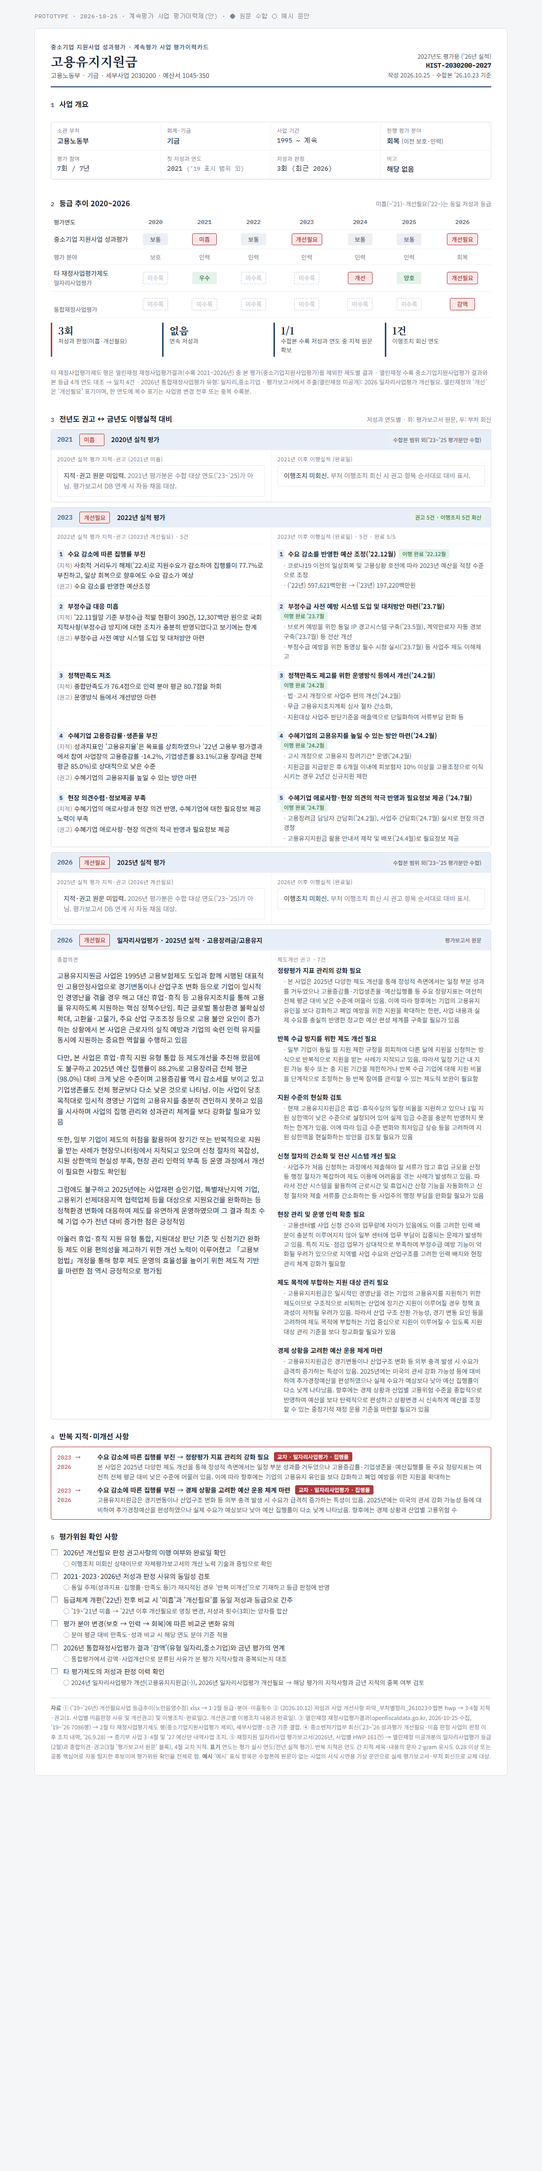
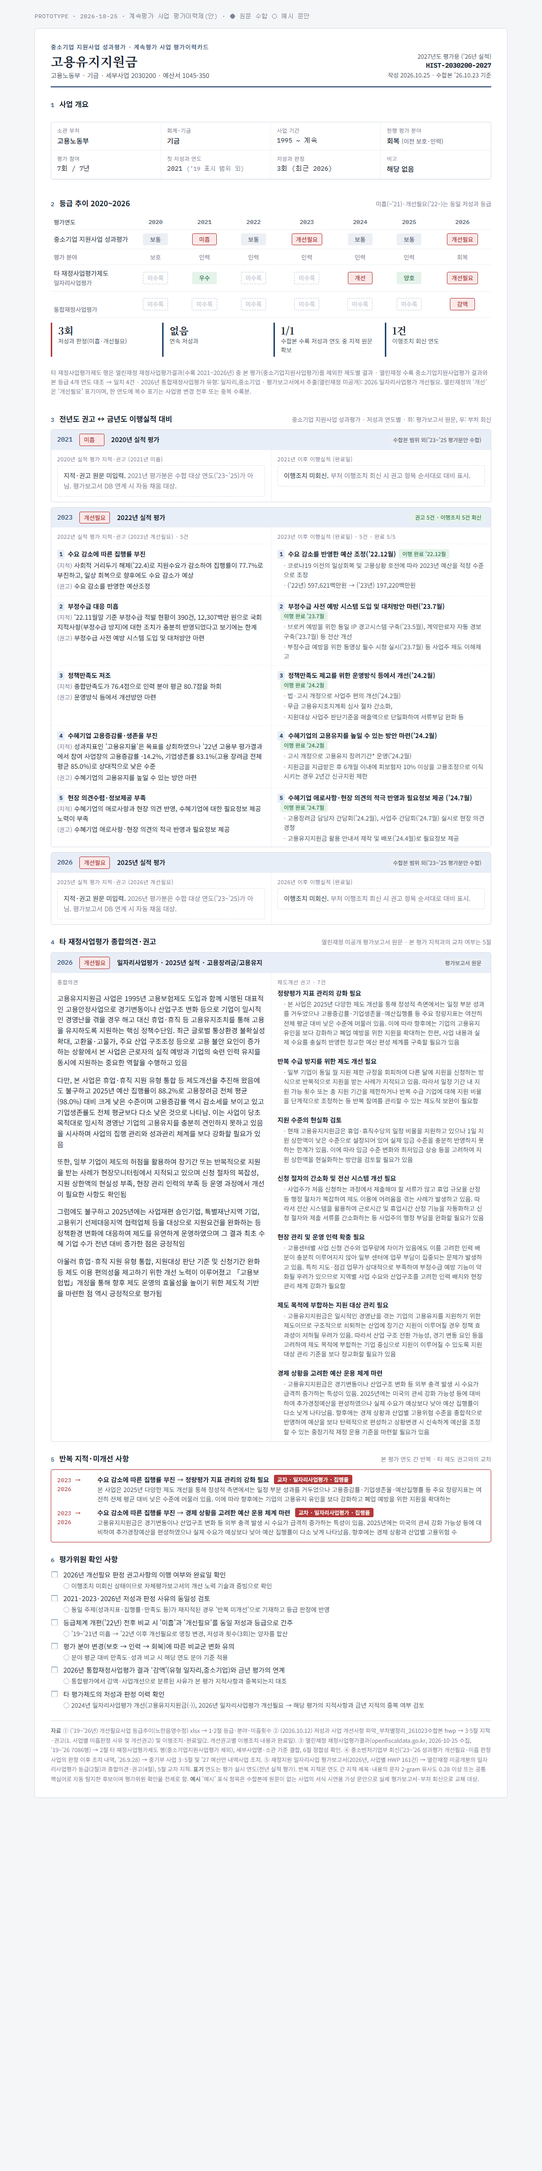
3절은 중소기업 지원사업 평가만, 타 재정사업평가 의견은 4절로 분리 (반복 5절·확인 6절)

Changed region(s): [[0.0927, 0.4359, 0.8964, 0.8407], [0.0927, 0.4048, 0.4945, 0.5916]]

diff --git a/card/eval_history_card.html b/card/eval_history_card.html
@@ -270,13 +270,15 @@ function render(p){
 
   // ---- 타 평가제도 평가보고서(일자리사업평가 등)의 종합의견·권고
   const OF = Object.entries(p.other_findings||{}).sort();
+  let otherHtml = '';
   for(const [y,recs] of OF) for(const r of recs){
     const sm = r.summary.map(s=>`<p class="sub">${esc(s)}</p>`).join('');
     const it = r.items.map(f=>`<div class="item"><p class="t">${esc(f.title)}</p>${f.detail.map(d=>`<p class="sub">${esc(d)}</p>`).join('')}</div>`).join('');
     const meta = [r.sub && r.sub!==p.name ? `내역 ${esc(r.sub)}` : '', r.job_type ? esc(r.job_type)+(r.sub_type?'/'+esc(r.sub_type):'') : ''].filter(Boolean).join(' · ');
-    pairs += `<div class="pair"><div class="yr"><span class="mono">${y}</span> <span class="chip ${fisClass(r.grade)}">${esc(r.grade)}</span> <span>${esc(r.system)} · ${+y-1}년 실적${meta?' · '+meta:''}</span><span class="st"><span class="badge b-na">평가보고서 원문</span></span></div>
+    otherHtml += `<div class="pair"><div class="yr"><span class="mono">${y}</span> <span class="chip ${fisClass(r.grade)}">${esc(r.grade)}</span> <span>${esc(r.system)} · ${+y-1}년 실적${meta?' · '+meta:''}</span><span class="st"><span class="badge b-na">평가보고서 원문</span></span></div>
       <div class="cols"><div><div class="lab">종합의견</div>${sm||'<div class="empty">종합의견 없음</div>'}</div><div><div class="lab">제도개선 권고 · ${r.items.length}건</div>${it||'<div class="empty">권고 없음</div>'}</div></div></div>`;
   }
+  if(!otherHtml) otherHtml = `<div class="empty">타 재정사업평가의 평가보고서 원문이 결합된 연도 없음. 등급만 공개된 제도(열린재정)는 2절 행을 참조.</div>`;
 
   // ---- 반복 지적
   let repHtml;
@@ -346,22 +348,27 @@ function render(p){
   </section>
 
   <section>
-    <h2><span class="n">3</span>전년도 권고 ↔ 금년도 이행실적 대비<span class="hint">저성과 연도별 · 좌: 평가보고서 원문, 우: 부처 회신</span></h2>
+    <h2><span class="n">3</span>전년도 권고 ↔ 금년도 이행실적 대비<span class="hint">중소기업 지원사업 성과평가 · 저성과 연도별 · 좌: 평가보고서 원문, 우: 부처 회신</span></h2>
     ${hasSample?`<div class="banner"><b>예시 데이터 안내.</b> ${esc(p.sample_note||'아래 지적·권고·이행조치 중 예시 표식 항목은 서식 시연용 가상 문안으로, 실제 평가보고서 원문과 부처 회신으로 교체해야 함.')}</div>`:''}
     ${pairs}
   </section>
 
   <section>
-    <h2><span class="n">4</span>반복 지적·미개선 사항</h2>
+    <h2><span class="n">4</span>타 재정사업평가 종합의견·권고<span class="hint">열린재정 미공개 평가보고서 원문 · 본 평가 지적과의 교차 여부는 5절</span></h2>
+    ${otherHtml}
+  </section>
+
+  <section>
+    <h2><span class="n">5</span>반복 지적·미개선 사항<span class="hint">본 평가 연도 간 반복 · 타 제도 권고와의 교차</span></h2>
     ${repHtml}
   </section>
 
   <section>
-    <h2><span class="n">5</span>평가위원 확인 사항</h2>
+    <h2><span class="n">6</span>평가위원 확인 사항</h2>
     <ul class="check">${checks.map(c=>`<li><span>${c}</span></li>`).join('')}</ul>
   </section>
 
-  <footer><b>자료</b> ① (’19~’26년) 개선필요사업 등급추이(노란음영수정) xlsx → 1·2절 등급·분야·미흡횟수 ② (2026.10.12) 저성과 사업 개선사항 파악_부처별정리_261023수합본 hwp → 3·4절 지적·권고(1. 사업별 미흡판정 사유 및 개선권고) 및 이행조치·완료일(2. 개선권고별 이행조치 내용과 완료일). ③ 열린재정 재정사업평가결과(openfiscaldata.go.kr, ${esc(D.fiscal_meta?D.fiscal_meta.fetched_at:'')} 수집, ’19~’26 ${D.fiscal_rows}행) → 2절 타 재정사업평가제도 행(중소기업지원사업평가 제외), 세부사업명·소관 기준 결합. ④ 중소벤처기업부 회신(’23~’26 성과평가 개선필요·미흡 판정 사업의 판정 이후 조치 내역, ’26.9.28) → 중기부 사업 3·4절 및 ’27 예산안 내역사업 조치. ⑤ 재정지원 일자리사업 평가보고서(${esc(D.jobs_meta?D.jobs_meta.year:'')}년, 사업별 HWP ${esc(D.jobs_meta?D.jobs_meta.count:'')}건) → 열린재정 미공개분의 일자리사업평가 등급(2절)과 종합의견·권고(3절 '평가보고서 원문' 블록), 4절 교차 지적. <b>표기</b> 연도는 평가 실시 연도(전년 실적 평가). 반복 지적은 연도 간 지적 제목·내용의 문자 2-gram 유사도 0.28 이상 또는 공통 핵심어로 자동 탐지한 후보이며 평가위원 확인을 전제로 함. <b>예시</b> '예시' 표식 항목은 수합본에 원문이 없는 사업의 서식 시연용 가상 문안으로 실제 평가보고서·부처 회신으로 교체 대상.</footer>`;
+  <footer><b>자료</b> ① (’19~’26년) 개선필요사업 등급추이(노란음영수정) xlsx → 1·2절 등급·분야·미흡횟수 ② (2026.10.12) 저성과 사업 개선사항 파악_부처별정리_261023수합본 hwp → 3·5절 지적·권고(1. 사업별 미흡판정 사유 및 개선권고) 및 이행조치·완료일(2. 개선권고별 이행조치 내용과 완료일). ③ 열린재정 재정사업평가결과(openfiscaldata.go.kr, ${esc(D.fiscal_meta?D.fiscal_meta.fetched_at:'')} 수집, ’19~’26 ${D.fiscal_rows}행) → 2절 타 재정사업평가제도 행(중소기업지원사업평가 제외), 세부사업명·소관 기준 결합, 6절 정합성 확인. ④ 중소벤처기업부 회신(’23~’26 성과평가 개선필요·미흡 판정 사업의 판정 이후 조치 내역, ’26.9.28) → 중기부 사업 3·5절 및 ’27 예산안 내역사업 조치. ⑤ 재정지원 일자리사업 평가보고서(${esc(D.jobs_meta?D.jobs_meta.year:'')}년, 사업별 HWP ${esc(D.jobs_meta?D.jobs_meta.count:'')}건) → 열린재정 미공개분의 일자리사업평가 등급(2절)과 종합의견·권고(4절), 5절 교차 지적. <b>표기</b> 연도는 평가 실시 연도(전년 실적 평가). 반복 지적은 연도 간 지적 제목·내용의 문자 2-gram 유사도 0.28 이상 또는 공통 핵심어로 자동 탐지한 후보이며 평가위원 확인을 전제로 함. <b>예시</b> '예시' 표식 항목은 수합본에 원문이 없는 사업의 서식 시연용 가상 문안으로 실제 평가보고서·부처 회신으로 교체 대상.</footer>`;
 }
 
 // ---- 사업 선택

diff --git a/card/examples/2030200_고용유지지원금.html b/card/examples/2030200_고용유지지원금.html
@@ -270,13 +270,15 @@ function render(p){
 
   // ---- 타 평가제도 평가보고서(일자리사업평가 등)의 종합의견·권고
   const OF = Object.entries(p.other_findings||{}).sort();
+  let otherHtml = '';
   for(const [y,recs] of OF) for(const r of recs){
     const sm = r.summary.map(s=>`<p class="sub">${esc(s)}</p>`).join('');
     const it = r.items.map(f=>`<div class="item"><p class="t">${esc(f.title)}</p>${f.detail.map(d=>`<p class="sub">${esc(d)}</p>`).join('')}</div>`).join('');
     const meta = [r.sub && r.sub!==p.name ? `내역 ${esc(r.sub)}` : '', r.job_type ? esc(r.job_type)+(r.sub_type?'/'+esc(r.sub_type):'') : ''].filter(Boolean).join(' · ');
-    pairs += `<div class="pair"><div class="yr"><span class="mono">${y}</span> <span class="chip ${fisClass(r.grade)}">${esc(r.grade)}</span> <span>${esc(r.system)} · ${+y-1}년 실적${meta?' · '+meta:''}</span><span class="st"><span class="badge b-na">평가보고서 원문</span></span></div>
+    otherHtml += `<div class="pair"><div class="yr"><span class="mono">${y}</span> <span class="chip ${fisClass(r.grade)}">${esc(r.grade)}</span> <span>${esc(r.system)} · ${+y-1}년 실적${meta?' · '+meta:''}</span><span class="st"><span class="badge b-na">평가보고서 원문</span></span></div>
       <div class="cols"><div><div class="lab">종합의견</div>${sm||'<div class="empty">종합의견 없음</div>'}</div><div><div class="lab">제도개선 권고 · ${r.items.length}건</div>${it||'<div class="empty">권고 없음</div>'}</div></div></div>`;
   }
+  if(!otherHtml) otherHtml = `<div class="empty">타 재정사업평가의 평가보고서 원문이 결합된 연도 없음. 등급만 공개된 제도(열린재정)는 2절 행을 참조.</div>`;
 
   // ---- 반복 지적
   let repHtml;
@@ -346,22 +348,27 @@ function render(p){
   </section>
 
   <section>
-    <h2><span class="n">3</span>전년도 권고 ↔ 금년도 이행실적 대비<span class="hint">저성과 연도별 · 좌: 평가보고서 원문, 우: 부처 회신</span></h2>
+    <h2><span class="n">3</span>전년도 권고 ↔ 금년도 이행실적 대비<span class="hint">중소기업 지원사업 성과평가 · 저성과 연도별 · 좌: 평가보고서 원문, 우: 부처 회신</span></h2>
     ${hasSample?`<div class="banner"><b>예시 데이터 안내.</b> ${esc(p.sample_note||'아래 지적·권고·이행조치 중 예시 표식 항목은 서식 시연용 가상 문안으로, 실제 평가보고서 원문과 부처 회신으로 교체해야 함.')}</div>`:''}
     ${pairs}
   </section>
 
   <section>
-    <h2><span class="n">4</span>반복 지적·미개선 사항</h2>
+    <h2><span class="n">4</span>타 재정사업평가 종합의견·권고<span class="hint">열린재정 미공개 평가보고서 원문 · 본 평가 지적과의 교차 여부는 5절</span></h2>
+    ${otherHtml}
+  </section>
+
+  <section>
+    <h2><span class="n">5</span>반복 지적·미개선 사항<span class="hint">본 평가 연도 간 반복 · 타 제도 권고와의 교차</span></h2>
     ${repHtml}
   </section>
 
   <section>
-    <h2><span class="n">5</span>평가위원 확인 사항</h2>
+    <h2><span class="n">6</span>평가위원 확인 사항</h2>
     <ul class="check">${checks.map(c=>`<li><span>${c}</span></li>`).join('')}</ul>
   </section>
 
-  <footer><b>자료</b> ① (’19~’26년) 개선필요사업 등급추이(노란음영수정) xlsx → 1·2절 등급·분야·미흡횟수 ② (2026.10.12) 저성과 사업 개선사항 파악_부처별정리_261023수합본 hwp → 3·4절 지적·권고(1. 사업별 미흡판정 사유 및 개선권고) 및 이행조치·완료일(2. 개선권고별 이행조치 내용과 완료일). ③ 열린재정 재정사업평가결과(openfiscaldata.go.kr, ${esc(D.fiscal_meta?D.fiscal_meta.fetched_at:'')} 수집, ’19~’26 ${D.fiscal_rows}행) → 2절 타 재정사업평가제도 행(중소기업지원사업평가 제외), 세부사업명·소관 기준 결합. ④ 중소벤처기업부 회신(’23~’26 성과평가 개선필요·미흡 판정 사업의 판정 이후 조치 내역, ’26.9.28) → 중기부 사업 3·4절 및 ’27 예산안 내역사업 조치. ⑤ 재정지원 일자리사업 평가보고서(${esc(D.jobs_meta?D.jobs_meta.year:'')}년, 사업별 HWP ${esc(D.jobs_meta?D.jobs_meta.count:'')}건) → 열린재정 미공개분의 일자리사업평가 등급(2절)과 종합의견·권고(3절 '평가보고서 원문' 블록), 4절 교차 지적. <b>표기</b> 연도는 평가 실시 연도(전년 실적 평가). 반복 지적은 연도 간 지적 제목·내용의 문자 2-gram 유사도 0.28 이상 또는 공통 핵심어로 자동 탐지한 후보이며 평가위원 확인을 전제로 함. <b>예시</b> '예시' 표식 항목은 수합본에 원문이 없는 사업의 서식 시연용 가상 문안으로 실제 평가보고서·부처 회신으로 교체 대상.</footer>`;
+  <footer><b>자료</b> ① (’19~’26년) 개선필요사업 등급추이(노란음영수정) xlsx → 1·2절 등급·분야·미흡횟수 ② (2026.10.12) 저성과 사업 개선사항 파악_부처별정리_261023수합본 hwp → 3·5절 지적·권고(1. 사업별 미흡판정 사유 및 개선권고) 및 이행조치·완료일(2. 개선권고별 이행조치 내용과 완료일). ③ 열린재정 재정사업평가결과(openfiscaldata.go.kr, ${esc(D.fiscal_meta?D.fiscal_meta.fetched_at:'')} 수집, ’19~’26 ${D.fiscal_rows}행) → 2절 타 재정사업평가제도 행(중소기업지원사업평가 제외), 세부사업명·소관 기준 결합, 6절 정합성 확인. ④ 중소벤처기업부 회신(’23~’26 성과평가 개선필요·미흡 판정 사업의 판정 이후 조치 내역, ’26.9.28) → 중기부 사업 3·5절 및 ’27 예산안 내역사업 조치. ⑤ 재정지원 일자리사업 평가보고서(${esc(D.jobs_meta?D.jobs_meta.year:'')}년, 사업별 HWP ${esc(D.jobs_meta?D.jobs_meta.count:'')}건) → 열린재정 미공개분의 일자리사업평가 등급(2절)과 종합의견·권고(4절), 5절 교차 지적. <b>표기</b> 연도는 평가 실시 연도(전년 실적 평가). 반복 지적은 연도 간 지적 제목·내용의 문자 2-gram 유사도 0.28 이상 또는 공통 핵심어로 자동 탐지한 후보이며 평가위원 확인을 전제로 함. <b>예시</b> '예시' 표식 항목은 수합본에 원문이 없는 사업의 서식 시연용 가상 문안으로 실제 평가보고서·부처 회신으로 교체 대상.</footer>`;
 }
 
 // ---- 사업 선택

diff --git a/card/template.html b/card/template.html
@@ -270,13 +270,15 @@ function render(p){
 
   // ---- 타 평가제도 평가보고서(일자리사업평가 등)의 종합의견·권고
   const OF = Object.entries(p.other_findings||{}).sort();
+  let otherHtml = '';
   for(const [y,recs] of OF) for(const r of recs){
     const sm = r.summary.map(s=>`<p class="sub">${esc(s)}</p>`).join('');
     const it = r.items.map(f=>`<div class="item"><p class="t">${esc(f.title)}</p>${f.detail.map(d=>`<p class="sub">${esc(d)}</p>`).join('')}</div>`).join('');
     const meta = [r.sub && r.sub!==p.name ? `내역 ${esc(r.sub)}` : '', r.job_type ? esc(r.job_type)+(r.sub_type?'/'+esc(r.sub_type):'') : ''].filter(Boolean).join(' · ');
-    pairs += `<div class="pair"><div class="yr"><span class="mono">${y}</span> <span class="chip ${fisClass(r.grade)}">${esc(r.grade)}</span> <span>${esc(r.system)} · ${+y-1}년 실적${meta?' · '+meta:''}</span><span class="st"><span class="badge b-na">평가보고서 원문</span></span></div>
+    otherHtml += `<div class="pair"><div class="yr"><span class="mono">${y}</span> <span class="chip ${fisClass(r.grade)}">${esc(r.grade)}</span> <span>${esc(r.system)} · ${+y-1}년 실적${meta?' · '+meta:''}</span><span class="st"><span class="badge b-na">평가보고서 원문</span></span></div>
       <div class="cols"><div><div class="lab">종합의견</div>${sm||'<div class="empty">종합의견 없음</div>'}</div><div><div class="lab">제도개선 권고 · ${r.items.length}건</div>${it||'<div class="empty">권고 없음</div>'}</div></div></div>`;
   }
+  if(!otherHtml) otherHtml = `<div class="empty">타 재정사업평가의 평가보고서 원문이 결합된 연도 없음. 등급만 공개된 제도(열린재정)는 2절 행을 참조.</div>`;
 
   // ---- 반복 지적
   let repHtml;
@@ -346,22 +348,27 @@ function render(p){
   </section>
 
   <section>
-    <h2><span class="n">3</span>전년도 권고 ↔ 금년도 이행실적 대비<span class="hint">저성과 연도별 · 좌: 평가보고서 원문, 우: 부처 회신</span></h2>
+    <h2><span class="n">3</span>전년도 권고 ↔ 금년도 이행실적 대비<span class="hint">중소기업 지원사업 성과평가 · 저성과 연도별 · 좌: 평가보고서 원문, 우: 부처 회신</span></h2>
     ${hasSample?`<div class="banner"><b>예시 데이터 안내.</b> ${esc(p.sample_note||'아래 지적·권고·이행조치 중 예시 표식 항목은 서식 시연용 가상 문안으로, 실제 평가보고서 원문과 부처 회신으로 교체해야 함.')}</div>`:''}
     ${pairs}
   </section>
 
   <section>
-    <h2><span class="n">4</span>반복 지적·미개선 사항</h2>
+    <h2><span class="n">4</span>타 재정사업평가 종합의견·권고<span class="hint">열린재정 미공개 평가보고서 원문 · 본 평가 지적과의 교차 여부는 5절</span></h2>
+    ${otherHtml}
+  </section>
+
+  <section>
+    <h2><span class="n">5</span>반복 지적·미개선 사항<span class="hint">본 평가 연도 간 반복 · 타 제도 권고와의 교차</span></h2>
     ${repHtml}
   </section>
 
   <section>
-    <h2><span class="n">5</span>평가위원 확인 사항</h2>
+    <h2><span class="n">6</span>평가위원 확인 사항</h2>
     <ul class="check">${checks.map(c=>`<li><span>${c}</span></li>`).join('')}</ul>
   </section>
 
-  <footer><b>자료</b> ① (’19~’26년) 개선필요사업 등급추이(노란음영수정) xlsx → 1·2절 등급·분야·미흡횟수 ② (2026.10.12) 저성과 사업 개선사항 파악_부처별정리_261023수합본 hwp → 3·4절 지적·권고(1. 사업별 미흡판정 사유 및 개선권고) 및 이행조치·완료일(2. 개선권고별 이행조치 내용과 완료일). ③ 열린재정 재정사업평가결과(openfiscaldata.go.kr, ${esc(D.fiscal_meta?D.fiscal_meta.fetched_at:'')} 수집, ’19~’26 ${D.fiscal_rows}행) → 2절 타 재정사업평가제도 행(중소기업지원사업평가 제외), 세부사업명·소관 기준 결합. ④ 중소벤처기업부 회신(’23~’26 성과평가 개선필요·미흡 판정 사업의 판정 이후 조치 내역, ’26.9.28) → 중기부 사업 3·4절 및 ’27 예산안 내역사업 조치. ⑤ 재정지원 일자리사업 평가보고서(${esc(D.jobs_meta?D.jobs_meta.year:'')}년, 사업별 HWP ${esc(D.jobs_meta?D.jobs_meta.count:'')}건) → 열린재정 미공개분의 일자리사업평가 등급(2절)과 종합의견·권고(3절 '평가보고서 원문' 블록), 4절 교차 지적. <b>표기</b> 연도는 평가 실시 연도(전년 실적 평가). 반복 지적은 연도 간 지적 제목·내용의 문자 2-gram 유사도 0.28 이상 또는 공통 핵심어로 자동 탐지한 후보이며 평가위원 확인을 전제로 함. <b>예시</b> '예시' 표식 항목은 수합본에 원문이 없는 사업의 서식 시연용 가상 문안으로 실제 평가보고서·부처 회신으로 교체 대상.</footer>`;
+  <footer><b>자료</b> ① (’19~’26년) 개선필요사업 등급추이(노란음영수정) xlsx → 1·2절 등급·분야·미흡횟수 ② (2026.10.12) 저성과 사업 개선사항 파악_부처별정리_261023수합본 hwp → 3·5절 지적·권고(1. 사업별 미흡판정 사유 및 개선권고) 및 이행조치·완료일(2. 개선권고별 이행조치 내용과 완료일). ③ 열린재정 재정사업평가결과(openfiscaldata.go.kr, ${esc(D.fiscal_meta?D.fiscal_meta.fetched_at:'')} 수집, ’19~’26 ${D.fiscal_rows}행) → 2절 타 재정사업평가제도 행(중소기업지원사업평가 제외), 세부사업명·소관 기준 결합, 6절 정합성 확인. ④ 중소벤처기업부 회신(’23~’26 성과평가 개선필요·미흡 판정 사업의 판정 이후 조치 내역, ’26.9.28) → 중기부 사업 3·5절 및 ’27 예산안 내역사업 조치. ⑤ 재정지원 일자리사업 평가보고서(${esc(D.jobs_meta?D.jobs_meta.year:'')}년, 사업별 HWP ${esc(D.jobs_meta?D.jobs_meta.count:'')}건) → 열린재정 미공개분의 일자리사업평가 등급(2절)과 종합의견·권고(4절), 5절 교차 지적. <b>표기</b> 연도는 평가 실시 연도(전년 실적 평가). 반복 지적은 연도 간 지적 제목·내용의 문자 2-gram 유사도 0.28 이상 또는 공통 핵심어로 자동 탐지한 후보이며 평가위원 확인을 전제로 함. <b>예시</b> '예시' 표식 항목은 수합본에 원문이 없는 사업의 서식 시연용 가상 문안으로 실제 평가보고서·부처 회신으로 교체 대상.</footer>`;
 }
 
 // ---- 사업 선택

diff --git a/README.md b/README.md
@@ -2,7 +2,7 @@
 
 □ 계속 평가 사업의 연도별 지적사항·개선 여부를 한 장의 이력카드로 정리하여 평가위원에게 제공하는 시안
 
-○ 카드 구성(5개 절): 사업 개요 → 등급 추이(’20~’26) → 전년도 권고 ↔ 금년도 이행실적 대비 → 반복 지적·미개선 사항 → 평가위원 확인 사항
+○ 카드 구성(6개 절): 사업 개요 → 등급 추이(’20~’26) → 전년도 권고 ↔ 금년도 이행실적 대비(중소기업 지원사업 성과평가만) → 타 재정사업평가 종합의견·권고 → 반복 지적·미개선 사항 → 평가위원 확인 사항
  - 표시 연도는 2020년부터(2019년 제외). `build_card.py`·`build_index.py`의 `--from` 옵션으로 조정하며, 첫 저성과 연도·저성과 횟수는 표시 연도 기준으로 다시 계산(xlsx의 ’19년 포함 값과 다를 수 있음)
  - 등급 추이는 '중소기업 지원사업 성과평가' 행 아래에 '타 재정사업평가제도' 행(열린재정 재정사업평가결과 중 통합재정사업평가·일자리·재난안전·국가균형발전·복권기금 등, 중소기업지원사업평가는 제외)을 제도별로 배치하고, 열린재정 수록 중소기업지원사업평가 결과와 본 등급의 정합성은 각주로 대조
  - 권고↔이행 대비는 저성과(미흡·개선필요) 연도별로 좌측 평가보고서 원문(지적·권고), 우측 부처 회신(이행조치·완료일)을 대응
@@ -13,8 +13,8 @@
 ○ 자료 범위와 한계
  - 등급·분야·미흡횟수: 「(’19~’26년) 개선필요사업_등급추이_노란음영수정」 xlsx(99개 사업)
  - 지적·권고 및 이행조치·완료일: 「(2026.10.12) 저성과 사업_개선사항 파악_부처별정리_261023수합본」 hwp(34개 사업·연도, ’23~’25 평가분)
- - 중소벤처기업부 회신: 중기부 회신 hwp(’26.9.28)(’23~’26 성과평가 개선필요·미흡 판정 중기부 사업 11개·15개 연도의 지적·권고와 이행조치, ’27년 정부안 증액·동액 내역사업 21개, 즉시폐지 10개 사업의 이관 현황) → 중기부 사업의 3·4절과 '판정 이후 예산 조치' 블록
- - 재정지원 일자리사업 평가보고서(’26년, 사업별 HWP 161개 파일·162개 내역): 열린재정에 ’26년 일자리사업평가가 공개되지 않아 보고서에서 직접 등급(Ⅲ절 '평가 등급')·종합의견·제도개선 권고를 추출. 카드 수록 사업 중 16개 결합 → 2절 '타 재정사업평가제도' 행, 3절 '평가보고서 원문' 블록, 4절 교차 지적(본 평가 지적 ↔ 일자리 권고)
+ - 중소벤처기업부 회신: 중기부 회신 hwp(’26.9.28)(’23~’26 성과평가 개선필요·미흡 판정 중기부 사업 11개·15개 연도의 지적·권고와 이행조치, ’27년 정부안 증액·동액 내역사업 21개, 즉시폐지 10개 사업의 이관 현황) → 중기부 사업의 3·5절과 '판정 이후 예산 조치' 블록
+ - 재정지원 일자리사업 평가보고서(’26년, 사업별 HWP 161개 파일·162개 내역): 열린재정에 ’26년 일자리사업평가가 공개되지 않아 보고서에서 직접 등급(Ⅲ절 '평가 등급')·종합의견·제도개선 권고를 추출. 카드 수록 사업 중 16개 결합 → 2절 '타 재정사업평가제도' 행, 4절 '타 재정사업평가 종합의견·권고', 5절 교차 지적(본 평가 지적 ↔ 일자리 권고)
  - 마케팅지원사업의 ’25년 지적 6건·이행조치 3건은 중기부 회신 원문으로 채워짐. ’21년 미흡은 회신 범위(’23~’26 평가분) 밖이라 공란. 서식 시연용 예시 문안(`sample_findings_*.json`) 방식은 유지하되 기본 빌드에서는 사용하지 않음
  - 이행조치 미회신 10건(문체부 6, 농림부 3, 금융위 1)은 '이행조치 미회신'으로 표시
  - 열린재정 재정사업평가결과(’19~’26, 7,086행)는 세부사업명·소관 기준으로 99개 중 94개 사업에 결합. 미결합 5개는 열린재정에 동일 사업명이 없는 사업
@@ -66,12 +66,12 @@ python3 -I tools/build_index.py data/history.json data/openfiscal_results.json c
  - ④ 수혜기업 고용증감률 -14.2%·생존율 83.1% → 고용유지 장려기간 신설(6개월 내 10% 이상 고용조정 시 2년 신규지원 제한) ’24.2월
  - ⑤ 현장 의견수렴·정보제공 부족 → 담당자·사업주 간담회, 활용 안내서 배포 ’24.7월
  - ’21년 미흡과 ’26년 개선필요는 수합 대상 연도(’23~’25 평가분)가 아니어서 '수합본 범위 외'로 표시
-○ 3절 끝 — ’26년 일자리사업평가 보고서의 종합의견 5건과 제도개선 권고 7건(정량지표 관리, 반복 수급 방지, 지원 수준 현실화, 신청 절차 간소화, 현장 인력, 지원대상 관리, 예산 운용)을 '평가보고서 원문' 블록으로 제시
-○ 4절 — 본 평가 지적 원문이 수합된 연도는 2023년 하나라 연도 간 반복은 '판정 불가'이나, ’23년 '수요 감소에 따른 집행률 부진'이 ’26년 일자리사업평가 권고(정량지표 관리 강화, 경제 상황을 고려한 예산 운용)와 '교차' 지적으로 자동 탐지됨
-○ 5절 — 자동 생성된 확인 사항: ’26년 개선필요 권고의 이행 확인(이행조치 미회신), 3개 저성과 연도 사유의 동일성, 등급체계 개편 전후 합산(3회), 분야 변경(인력→보호→회복), ’26년 통합재정사업평가 '감액'과의 연계, ’24년 일자리사업평가 '개선' 이력
+○ 4절 — ’26년 일자리사업평가 보고서의 종합의견 5건과 제도개선 권고 7건(정량지표 관리, 반복 수급 방지, 지원 수준 현실화, 신청 절차 간소화, 현장 인력, 지원대상 관리, 예산 운용)을 '평가보고서 원문'으로 제시
+○ 5절 — 본 평가 지적 원문이 수합된 연도는 2023년 하나라 연도 간 반복은 '판정 불가'이나, ’23년 '수요 감소에 따른 집행률 부진'이 ’26년 일자리사업평가 권고(정량지표 관리 강화, 경제 상황을 고려한 예산 운용)와 '교차' 지적으로 자동 탐지됨
+○ 6절 — 자동 생성된 확인 사항: ’26년 개선필요 권고의 이행 확인(이행조치 미회신), 3개 저성과 연도 사유의 동일성, 등급체계 개편 전후 합산(3회), 분야 변경(인력→보호→회복), ’26년 통합재정사업평가 '감액'과의 연계, ’24년 일자리사업평가 '개선' 이력
 
 ○ 시사점
- - ’23년 권고 5건이 ’24.7월까지 모두 이행 완료로 회신되었고 ’24·’25년 등급이 보통으로 회복되었으나 ’26년에 다시 개선필요로 떨어짐. ’26년 평가의 지적이 ’23년 권고 주제(집행률·부정수급·만족도·고용유지·현장소통)와 겹치는지가 평가위원의 핵심 확인 사항이며, ’26년 평가보고서 원문이 입력되면 4절에서 자동 대비됨
+ - ’23년 권고 5건이 ’24.7월까지 모두 이행 완료로 회신되었고 ’24·’25년 등급이 보통으로 회복되었으나 ’26년에 다시 개선필요로 떨어짐. ’26년 평가의 지적이 ’23년 권고 주제(집행률·부정수급·만족도·고용유지·현장소통)와 겹치는지가 평가위원의 핵심 확인 사항이며, ’26년 본 평가보고서 원문이 입력되면 5절에서 자동 대비됨
 
 ## 열린재정 연동 방식
 
@@ -84,6 +84,6 @@ python3 -I tools/build_index.py data/history.json data/openfiscal_results.json c
 ○ 결합: 사업명 정규화(공백·괄호·R&D·말미 '사업' 제거) 일치, 복수 후보는 소관 일치 우선. 현재명_(과거)과거명 병기 사업은 두 이름 모두 색인
  - 열린재정 '개선' 표기는 본 평가의 '개선필요'와 동일 등급으로 간주하여 정합성 대조
  - 한 연도에 복수 결과가 있으면 모두 표시(사업명 변경 전후 또는 중복 수록분)
-○ 검증(2026-10-25): 중소기업지원사업평가 결과 ↔ xlsx 등급 251건 대조, 248건 일치·3건 불일치(농식품해외시장진출 ’24 개선필요/보통, 녹색혁신기업성장지원 ’21 미평가/보통·’24 개선필요/우수) → 카드 2절 주석과 5절 확인 사항에 노출
+○ 검증(2026-10-25): 중소기업지원사업평가 결과 ↔ xlsx 등급 251건 대조, 248건 일치·3건 불일치(농식품해외시장진출 ’24 개선필요/보통, 녹색혁신기업성장지원 ’21 미평가/보통·’24 개선필요/우수) → 카드 2절 주석과 6절 확인 사항에 노출
  - 소관이 다른 결합 11건은 부처 이관·개편(산업통상부, 기후에너지환경부)에 따른 것이나, 온실가스관리인프라구축의 ’24·’25 중소기업지원사업평가 행은 열린재정 소관이 기획재정부로 표기되어 동명 사업 혼입 가능성 점검 필요
  - 미결합 5개 사업(지역혁신생태계구축지원, 창의산업전문기술개발사업, 시스템산업미래성장동력(R&D), 과학치안공공연구성과실용화촉진시범사업(R&D), 장기사용석유저장시설안전관리융자)은 열린재정 공개 목록에 동일 사업명이 없어 별칭 등록으로 보완 가능
